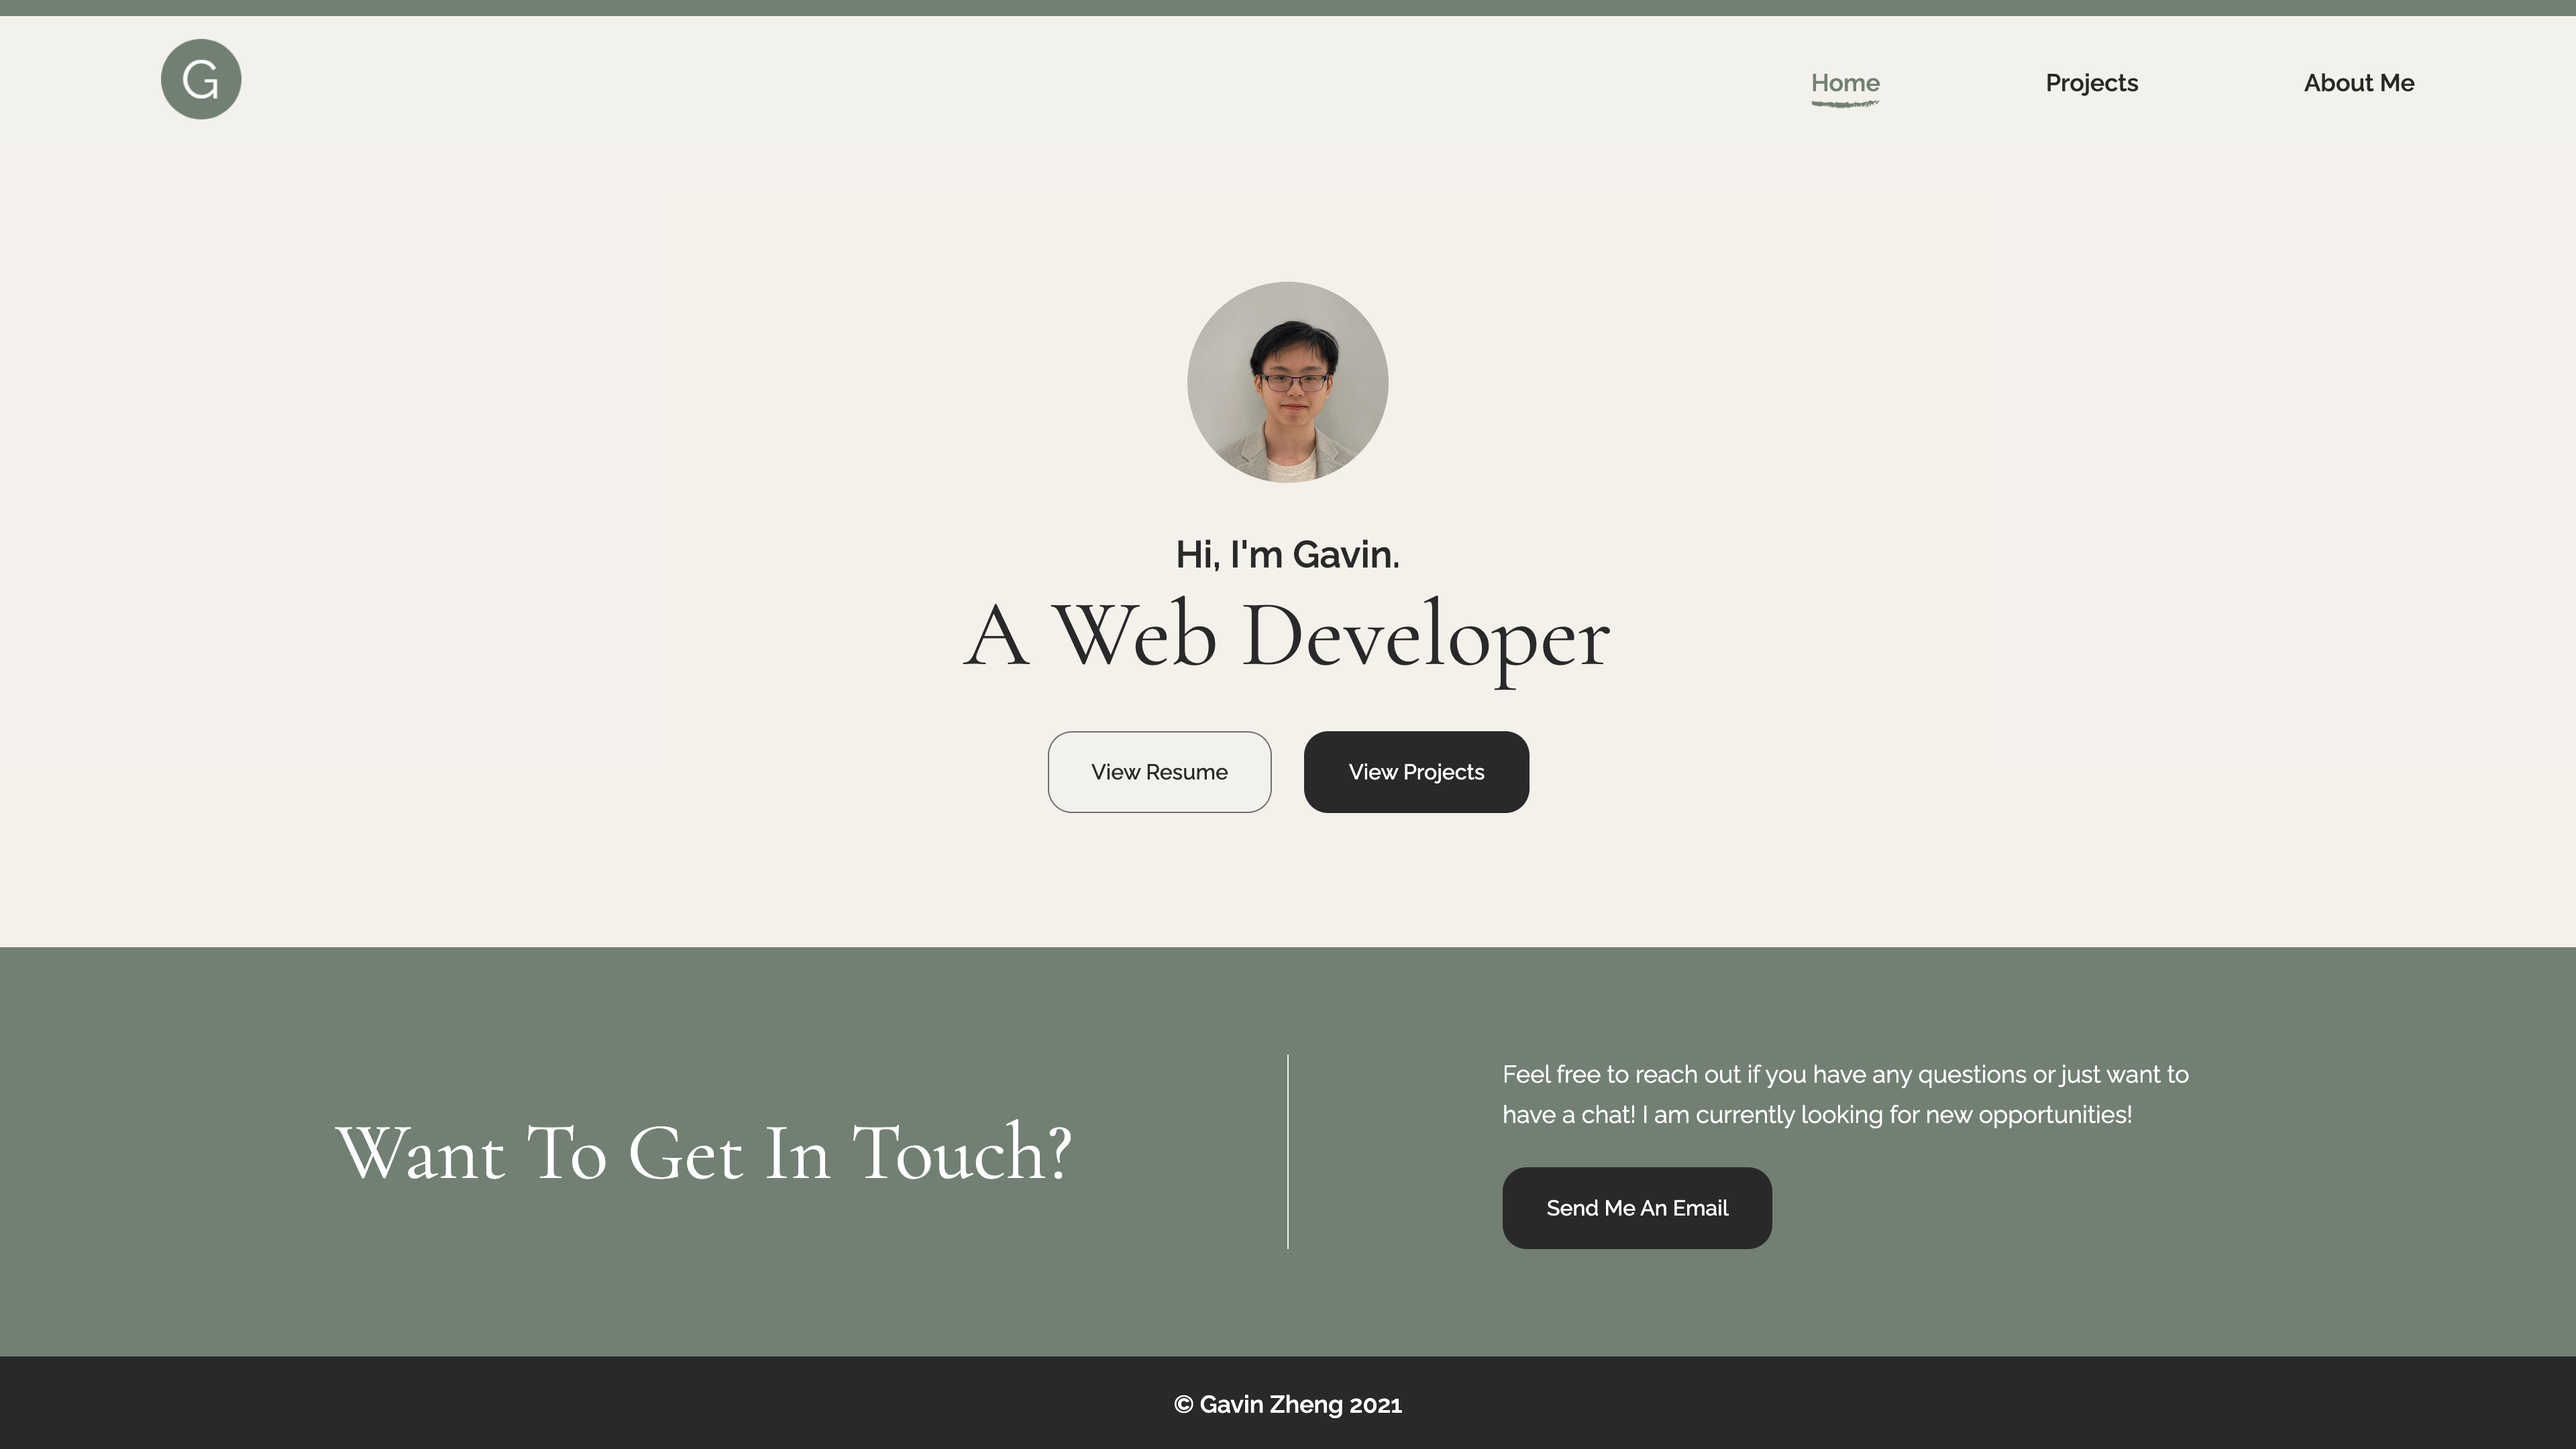
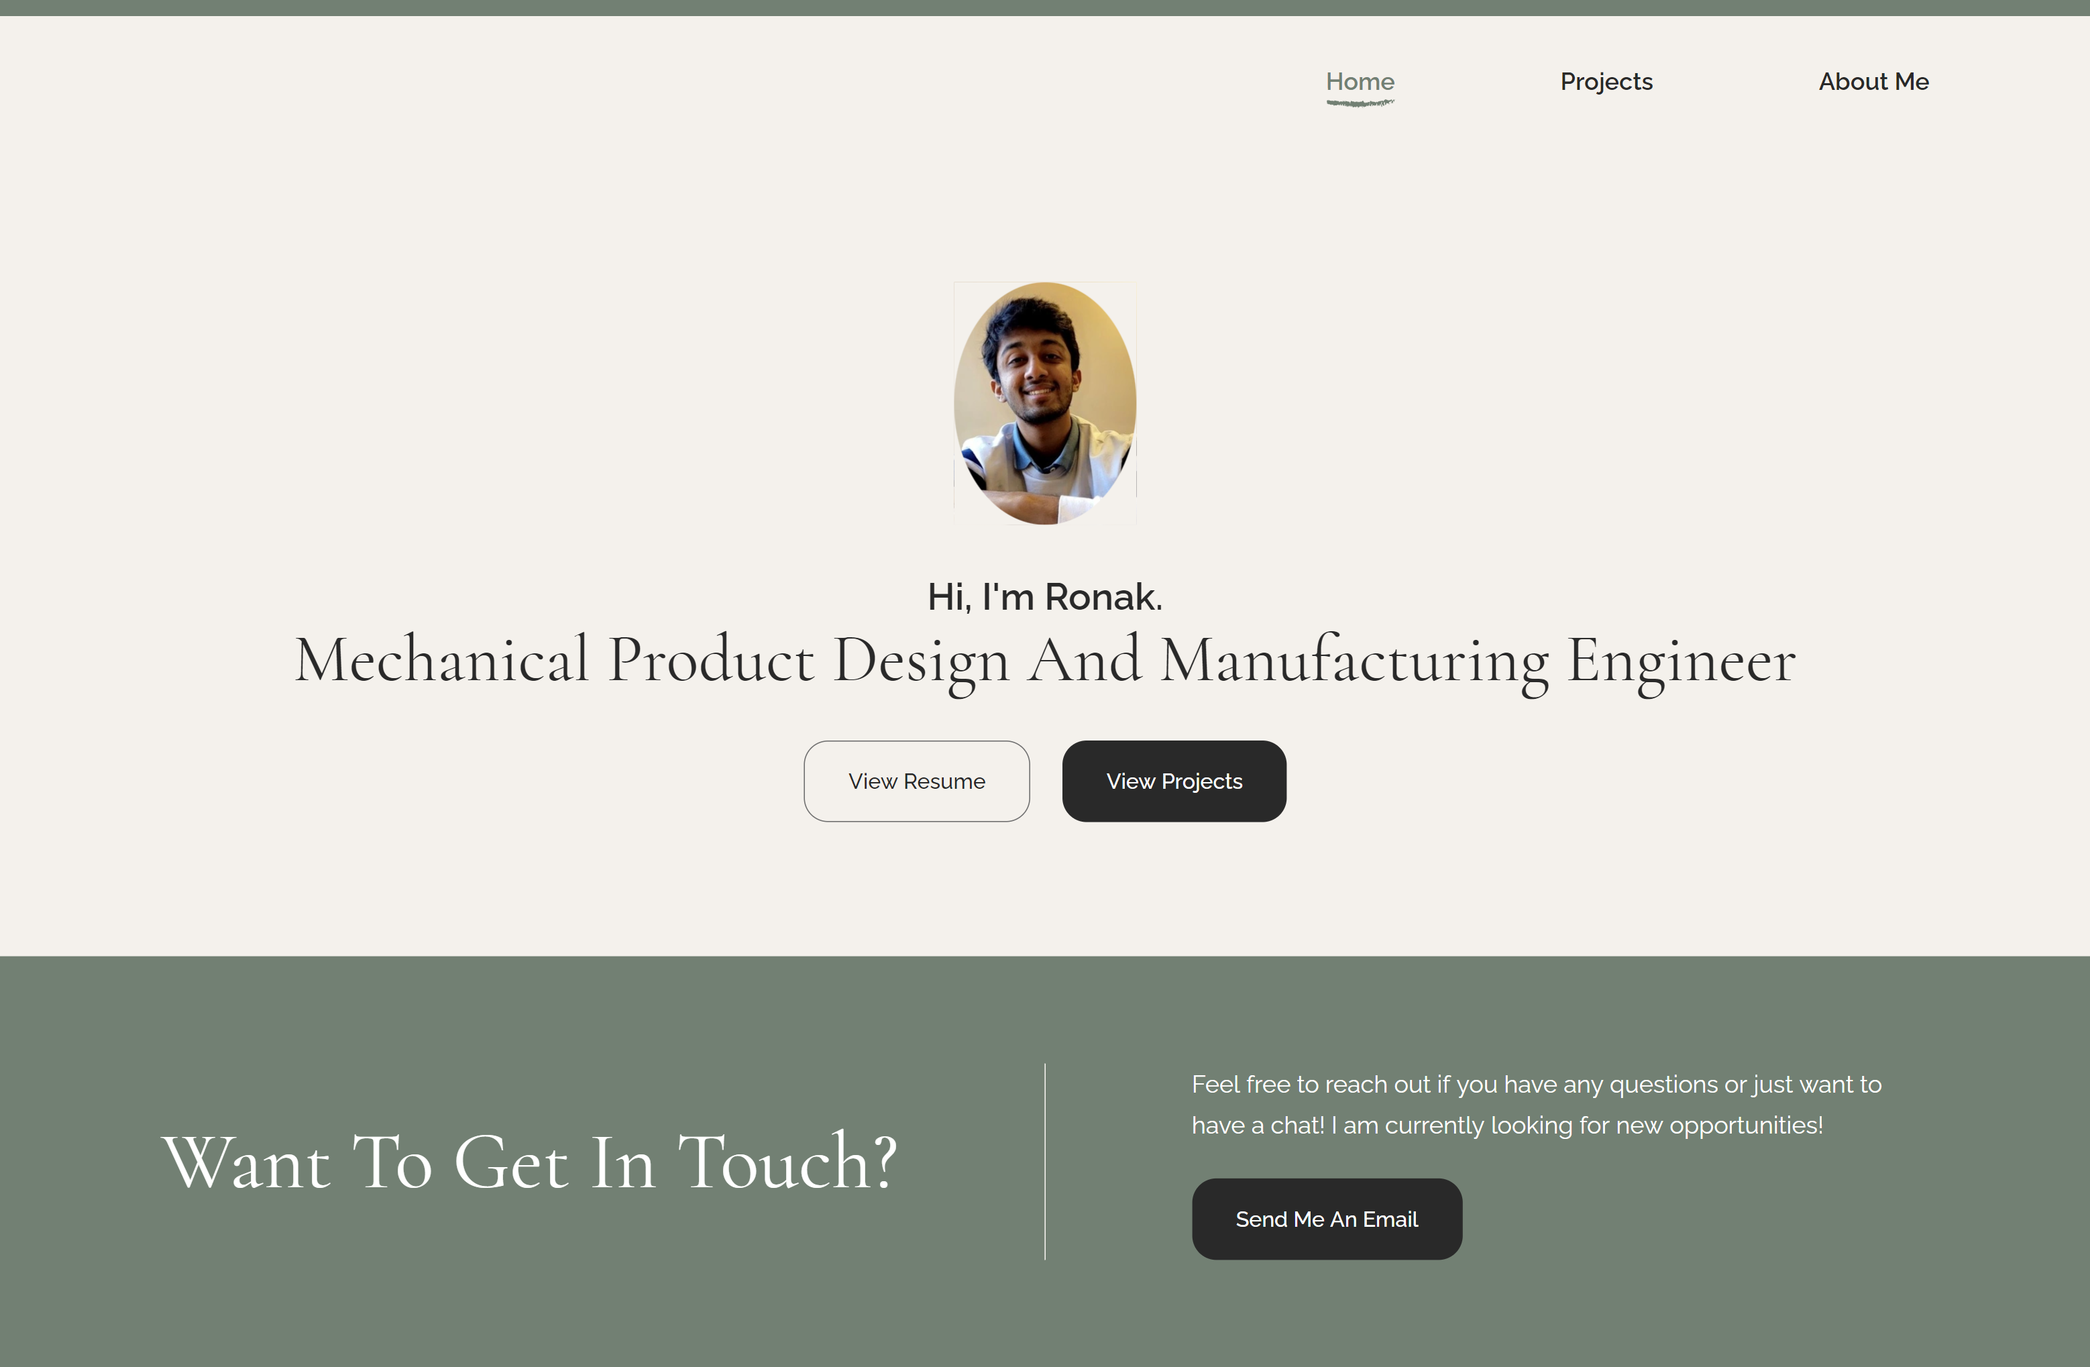
Updated stuff

diff --git a/src/components/About/About.js b/src/components/About/About.js
@@ -13,10 +13,9 @@ const About = () => {
         src="../../images/profile.jpg"
         alt="Gavin's headshot"
         height={180}
-        width={180}
         quality={95}
         className={styles.profileImg}
-        imgStyle={{ borderRadius: "50%" }}
+        style={{ borderRadius: "50%" }}
       />
       <div className={styles.aboutTitle}>
         <h1>Ronak Chougule</h1>
